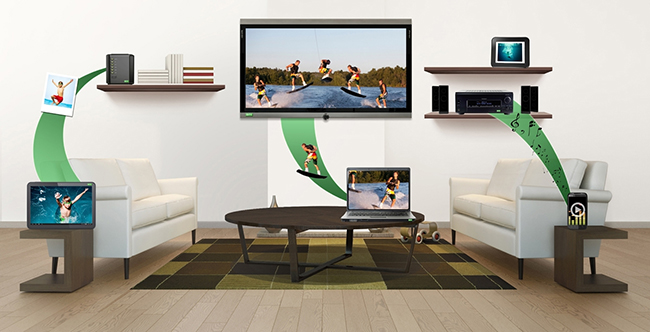
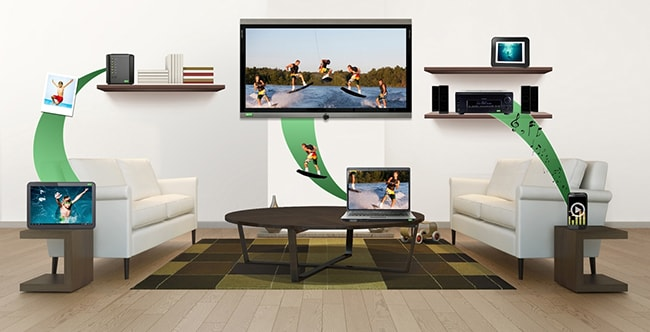
mejor

diff --git a/public/vista/one/style.css b/public/vista/one/style.css
@@ -301,7 +301,7 @@ hr.hrstyle:before{
 }
 #section2{
 
-  background: url(banner02.png) no-repeat;
+  background: url(banner02.jpg) no-repeat;
   background-size: cover
 
 }

diff --git a/resources/views/one_nano.blade.php b/resources/views/one_nano.blade.php
@@ -286,7 +286,7 @@
                     <h6 class="fuent_new3">O inovador Sistema Operacional baseado em Linux, muito rápido e fácil de usar, como apenas a Duosat sabe fazer, com um menu intuitivo e design minimalista que inclui todas as informações que você precisa.</h6>
                     {{--<p style="color: #000000">Função disponível com a compra de um acessório extra</p>--}}
                     <div class="row">
-                        <div class="col-md-6 col-md-offset-3"><img  class="img-responsive" src="{{URL::to('vista/one/so.png')}}" alt=""></div>
+                        <div class="col-md-6 col-md-offset-3"><img  class="img-responsive" src="{{URL::to('vista/one/so.jpg')}}" alt=""></div>
                     </div>
                 </div>
                 <div class="row screens">
